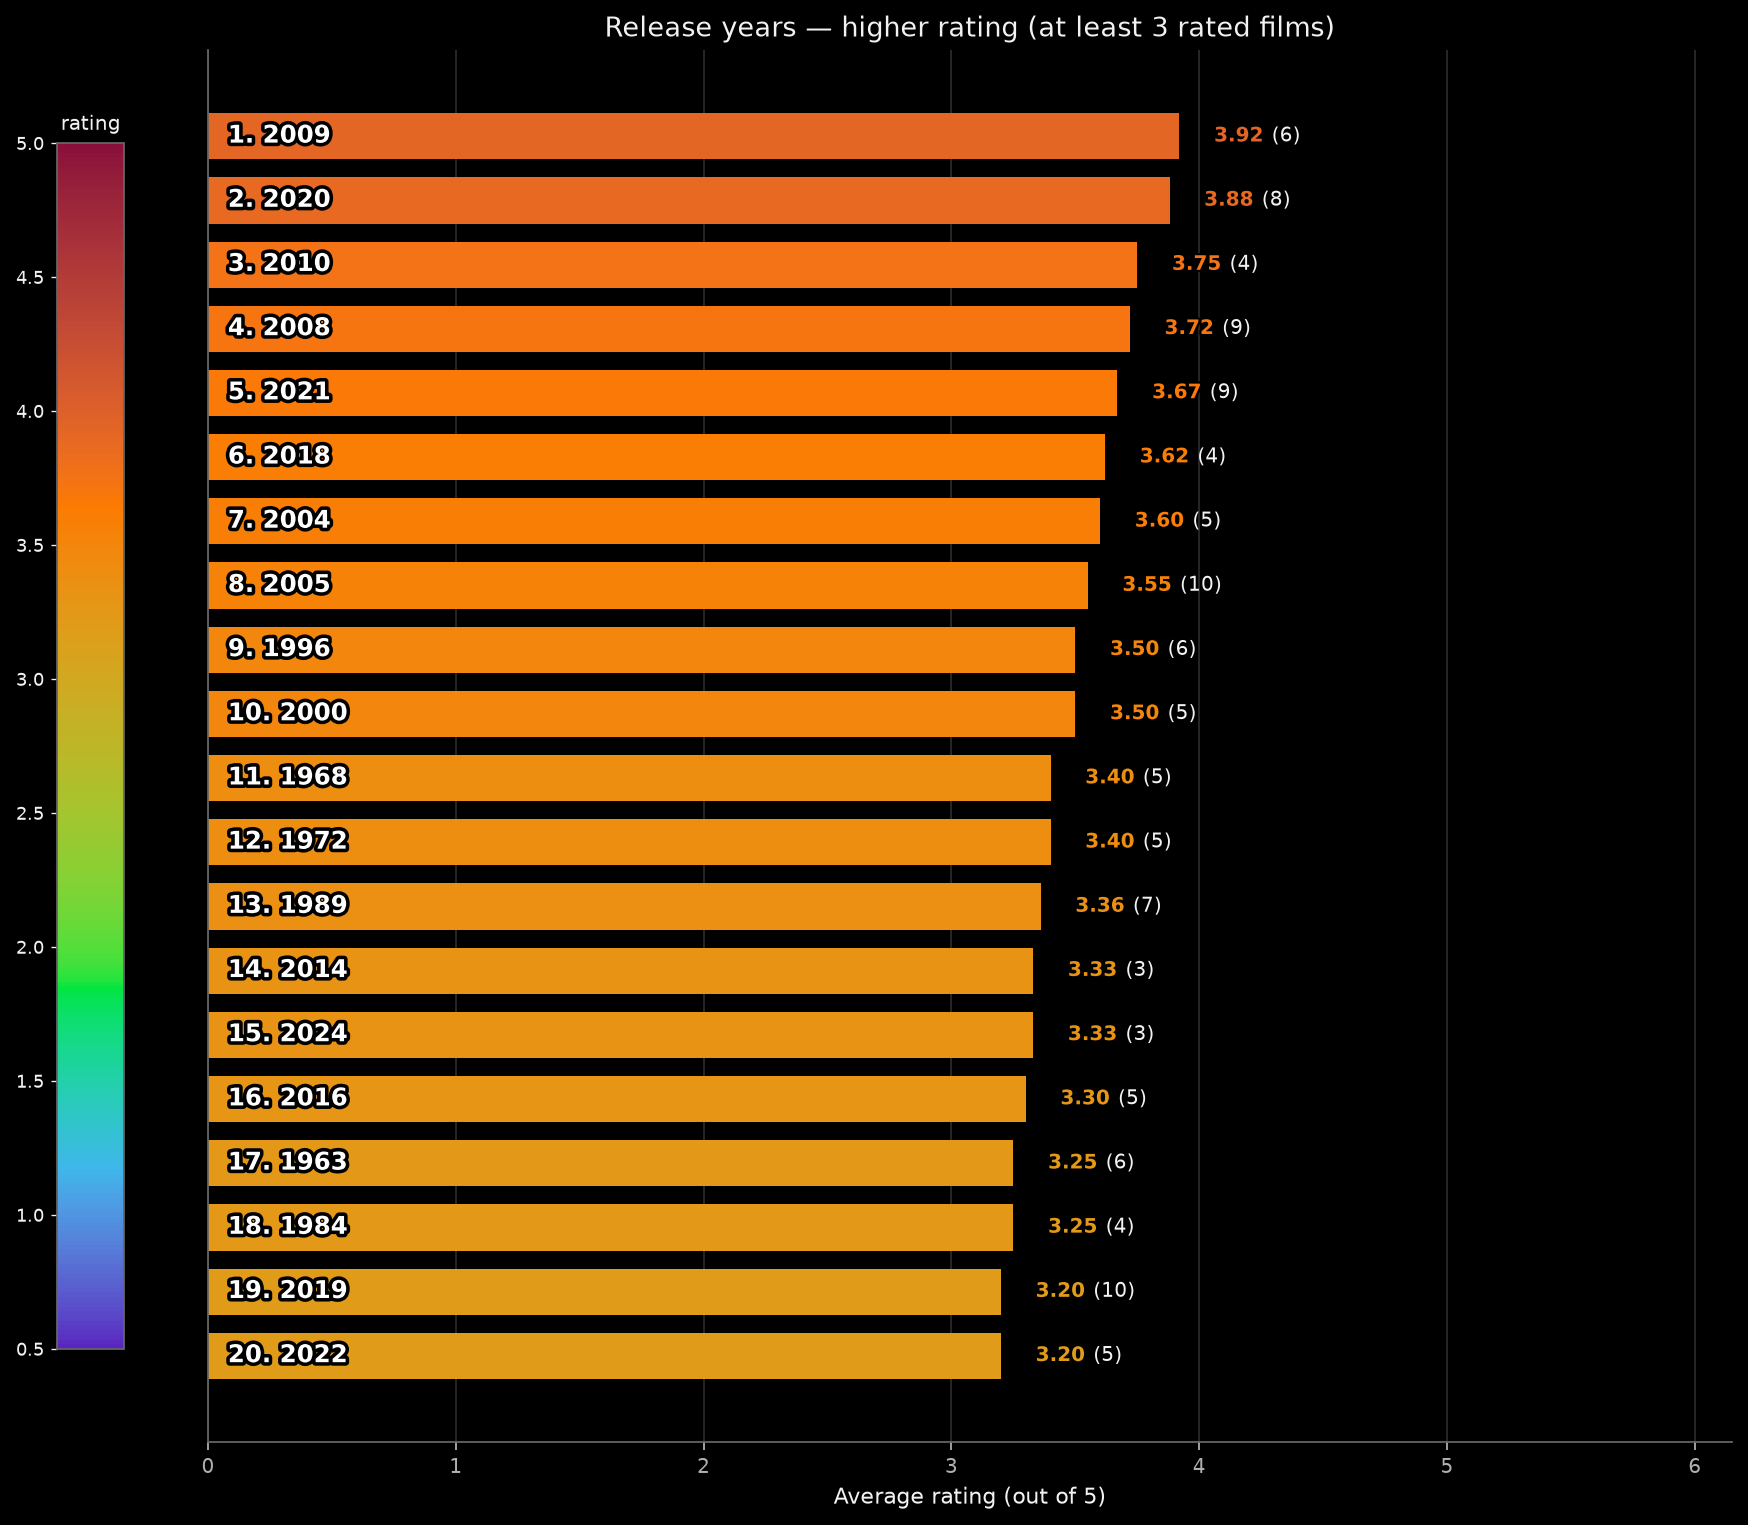
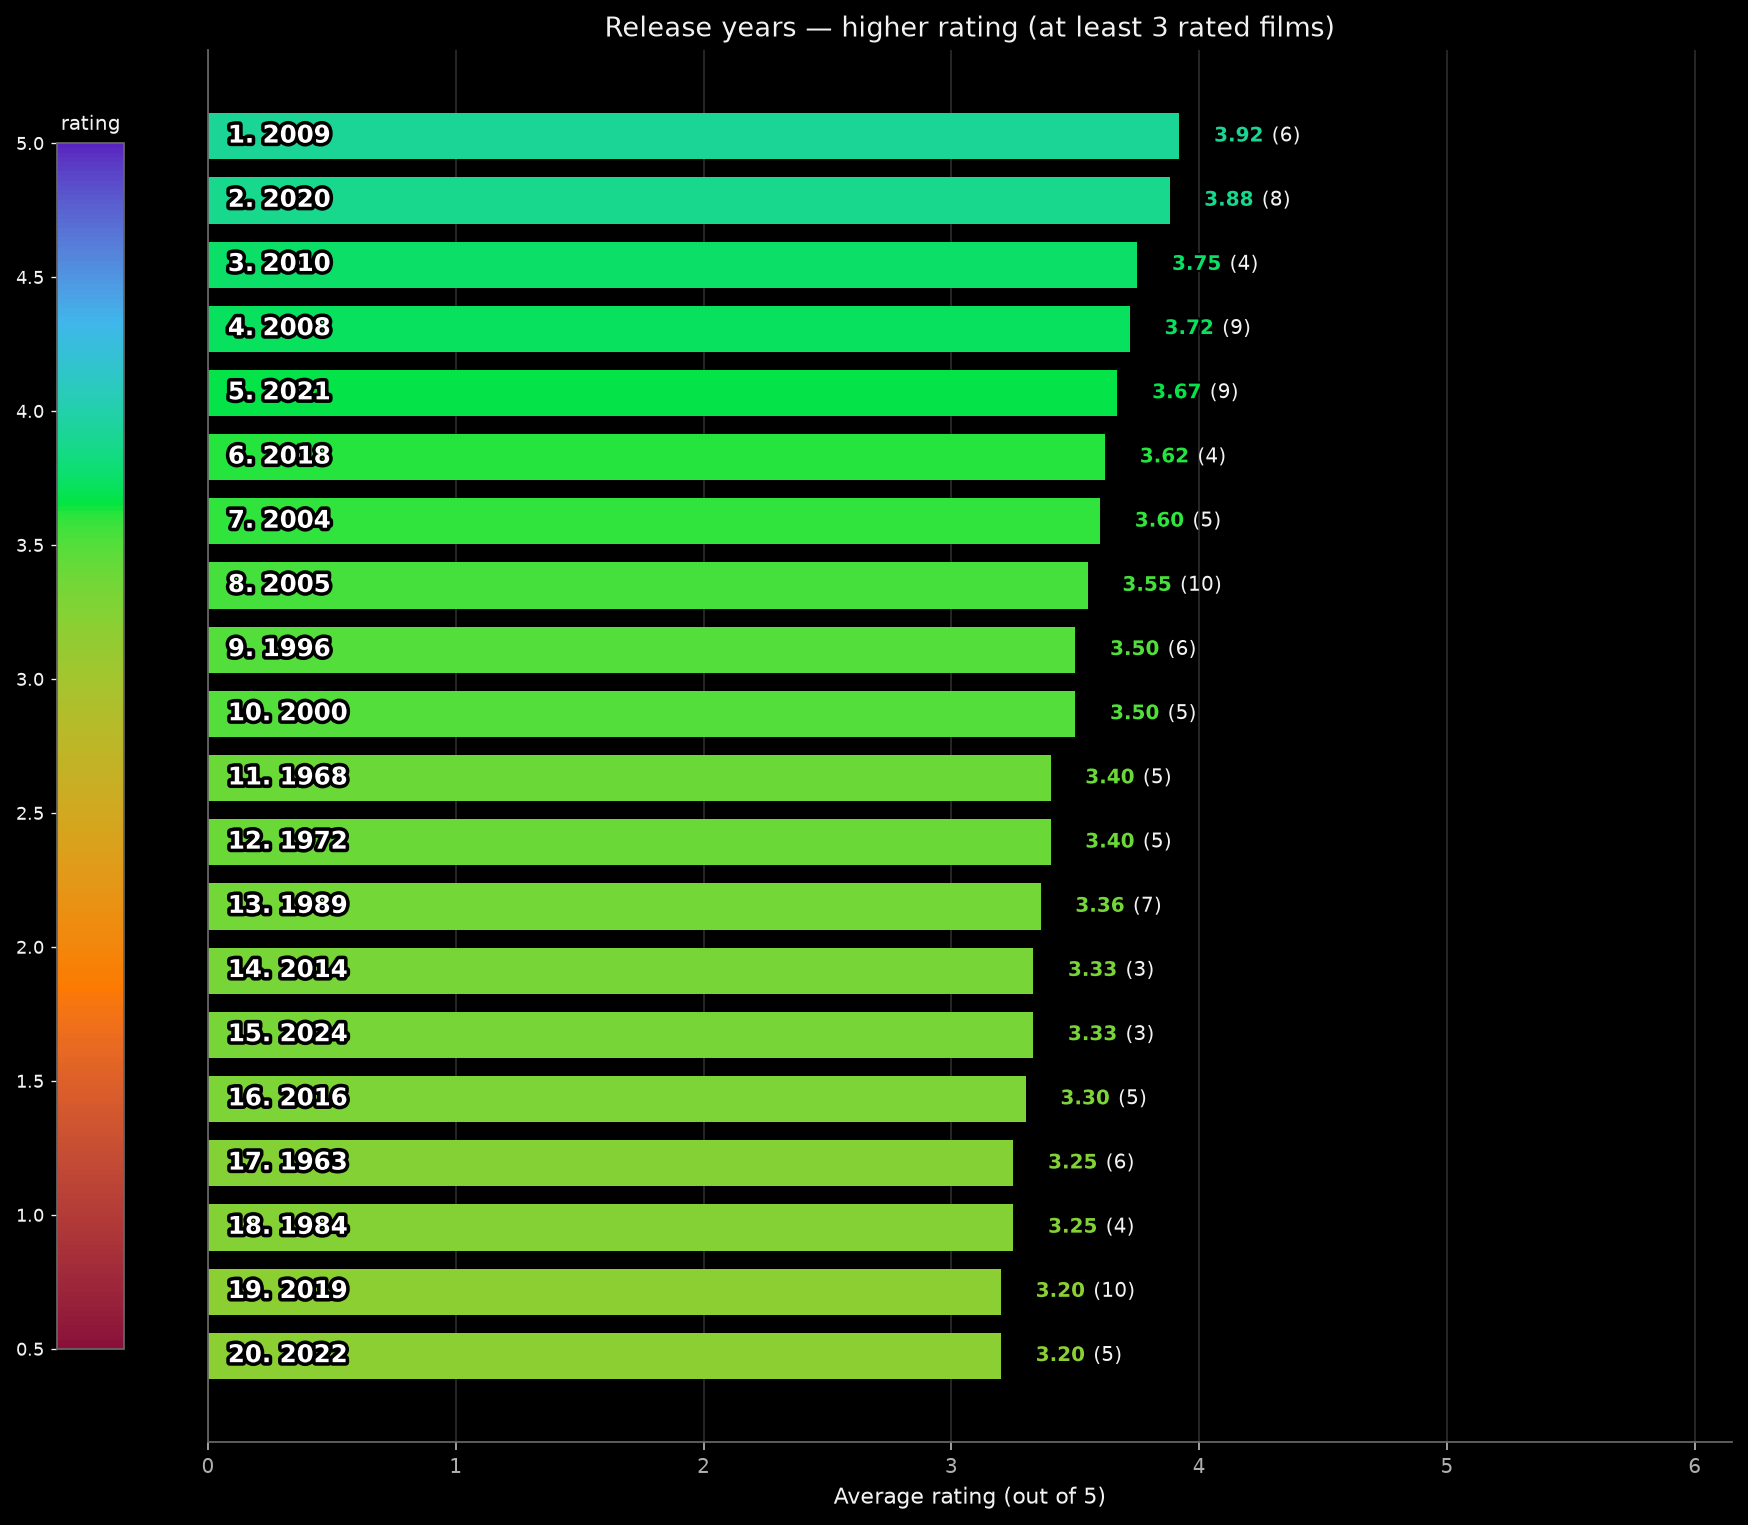
Color high ratings purple and low ratings burgundy.
A rating now maps with t = 1 - (rating - 0.5) / 4.5, so 5 is deep purple and 0.5 is deep burgundy. The palette knots and the discrete year order stay as they are. The rating colorbar uses the same reversal. README rating charts are regenerated.

diff --git a/scripts/test_letterboxd_palette.py b/scripts/test_letterboxd_palette.py
@@ -62,11 +62,13 @@ def test_logo_anchor_constants_are_the_measured_bytes():
     assert palette_rgb(0.4) != LOGO_GREEN_RGB
     assert palette_rgb(0.5) != LOGO_GREEN_RGB
     assert palette_rgb(0.75) != LOGO_ORANGE_RGB
-    # Colorbars go through the same function, not a binned lookup.
+    # The rating colorbar is the same blend, reversed: low is burgundy.
     cmap = rating_colormap()
-    assert palette_rgb_from(cmap(0.15)) == LOGO_BLUE_RGB
-    assert palette_rgb_from(cmap(0.3)) == LOGO_GREEN_RGB
-    assert palette_rgb_from(cmap(0.7)) == LOGO_ORANGE_RGB
+    assert palette_rgb_from(cmap(0.0)) == palette_rgb(1.0)
+    assert palette_rgb_from(cmap(1.0)) == palette_rgb(0.0)
+    assert palette_rgb_from(cmap(1.0 - 0.15)) == LOGO_BLUE_RGB
+    assert palette_rgb_from(cmap(1.0 - 0.3)) == LOGO_GREEN_RGB
+    assert palette_rgb_from(cmap(1.0 - 0.7)) == LOGO_ORANGE_RGB
 
 
 def palette_rgb_from(rgba) -> tuple[int, int, int]:
@@ -205,22 +207,22 @@ def test_discrete_ranks_use_logo_knots_then_even_midpoints():
 
 
 def test_rating_scale_uses_full_range_and_same_anchors():
-    assert palette_rgb_from(rating_color(RATING_VMIN)) == palette_rgb(0.0)
-    assert palette_rgb_from(rating_color(RATING_VMAX)) == palette_rgb(1.0)
-    # Logo blue is inside the rating scale, not the low end.
-    # t = 0.15 → rating = 0.5 + 0.15 * 4.5 = 1.175
-    assert palette_rgb_from(rating_color(1.175)) == LOGO_BLUE_RGB
-    assert palette_rgb_from(rating_color(1.85)) == LOGO_GREEN_RGB  # t = 0.3
-    assert palette_rgb_from(rating_color(3.65)) == LOGO_ORANGE_RGB  # t = 0.7
-    assert palette_rgb_from(rating_color(RATING_VMIN)) != LOGO_BLUE_RGB
+    assert palette_rgb_from(rating_color(RATING_VMIN)) == palette_rgb(1.0)
+    assert palette_rgb_from(rating_color(RATING_VMAX)) == palette_rgb(0.0)
+    # t = 1 - (rating - 0.5) / 4.5. Logo blue is a high rating, not the low end.
+    assert palette_rgb_from(rating_color(4.325)) == LOGO_BLUE_RGB  # t = 0.15
+    assert palette_rgb_from(rating_color(3.65)) == LOGO_GREEN_RGB  # t = 0.3
+    assert palette_rgb_from(rating_color(1.85)) == LOGO_ORANGE_RGB  # t = 0.7
+    assert palette_rgb_from(rating_color(RATING_VMAX)) != LOGO_BLUE_RGB
 
-    # The scale is the same straight blend: 0.7 is just in from purple,
-    # 1.15 is just short of logo blue, and 4.8 is just short of burgundy.
-    assert palette_rgb_from(rating_color(0.7)) != palette_rgb(0.0)
-    assert palette_rgb_from(rating_color(1.15)) != LOGO_BLUE_RGB
-    assert palette_rgb_from(rating_color(4.8)) != palette_rgb(1.0)
-    assert _oklab_distance(palette_rgb_from(rating_color(1.15)), LOGO_BLUE_RGB) < 0.05
-    assert _oklab_distance(palette_rgb_from(rating_color(4.8)), palette_rgb(1.0)) < 0.08
+    # 4.30 is just short of logo blue, 4.8 is just short of purple, and 0.7
+    # is just short of burgundy.
+    assert palette_rgb_from(rating_color(0.7)) != palette_rgb(1.0)
+    assert palette_rgb_from(rating_color(4.30)) != LOGO_BLUE_RGB
+    assert palette_rgb_from(rating_color(4.8)) != palette_rgb(0.0)
+    assert _oklab_distance(palette_rgb_from(rating_color(4.30)), LOGO_BLUE_RGB) < 0.05
+    near_high = palette_rgb_from(rating_color(4.8))
+    assert _oklab_distance(near_high, palette_rgb(0.0)) < _oklab_distance(near_high, LOGO_BLUE_RGB)
 
 
 if __name__ == "__main__":

diff --git a/scripts/test_letterboxd_top_charts.py b/scripts/test_letterboxd_top_charts.py
@@ -18,7 +18,6 @@ from letterboxd_palette import (
     palette_color,
     rating_color,
     rating_colormap,
-    srgb_to_oklab,
     watch_year_palette,
 )
 from PIL import Image
@@ -102,38 +101,33 @@ def test_categorical_palette_samples_quartile_ranks():
     # Rating colors stay a continuous map of the numeric value.
     assert np.allclose(rating_color(RATING_VMIN), rating_colormap()(0.0))
     assert np.allclose(rating_color(RATING_VMAX), rating_colormap()(1.0))
-    assert np.allclose(rating_color(RATING_VMIN), palette_color(0.0))
-    assert np.allclose(rating_color(RATING_VMAX), palette_color(1.0))
+    assert np.allclose(rating_color(RATING_VMIN), palette_color(1.0))
+    assert np.allclose(rating_color(RATING_VMAX), palette_color(0.0))
 
 
 def test_rating_colormap_is_blue_green_red():
     cmap = rating_colormap()
     low = cmap(0.0)
-    mid = cmap(0.3)
+    mid = cmap(1.0 - 0.3)
     high = cmap(1.0)
-    # low: blue dominates red
-    assert low[2] > low[0]
-    # logo green, not the numeric midpoint: green dominates
+    # low rating: burgundy, red dominates blue
+    assert low[0] > low[2]
+    # logo green sits on the reversed scale: green dominates
     assert mid[1] > mid[0] and mid[1] > mid[2]
-    # high: red dominates blue
-    assert high[0] > high[2]
+    # high rating: purple, blue dominates red
+    assert high[2] > high[0]
     # not a pale peach (coolwarm mid ≈ white/cream)
     for sample in (mid, cmap(0.5)):
         assert not (sample[0] > 0.85 and sample[1] > 0.85 and sample[2] > 0.85)
 
 
 def test_rating_color_fixed_scale_separates_high_band():
-    """3.6 vs 4.5 must not collapse into the same flesh band."""
-    a = rating_color(3.6, vmin=RATING_VMIN, vmax=RATING_VMAX)
-    b = rating_color(4.5, vmin=RATING_VMIN, vmax=RATING_VMAX)
-    # Distinct colors. Burgundy is darker than orange, so the red byte can fall
-    # while the color still moves toward red in OKLab.
-    dist = sum(abs(x - y) for x, y in zip(a[:3], b[:3]))
+    """3.6 vs 4.5 stay apart, and the higher rating moves toward purple."""
+    lower = rating_color(3.6, vmin=RATING_VMIN, vmax=RATING_VMAX)
+    higher = rating_color(4.5, vmin=RATING_VMIN, vmax=RATING_VMAX)
+    dist = sum(abs(x - y) for x, y in zip(lower[:3], higher[:3]))
     assert dist > 0.15
-    lab_a = srgb_to_oklab(*a[:3])
-    lab_b = srgb_to_oklab(*b[:3])
-    assert lab_b[1] > lab_a[1]
-    assert lab_b[2] < lab_a[2]
+    assert higher[2] > lower[2]
 
 
 def test_release_year_charts(tmp_path: Path | None = None):
@@ -482,9 +476,9 @@ def test_count_avg_text_style_colors_mean_only():
     assert _rgba(dash["color"]) == _rgba(FG)
     assert low["path_effects"] and high["path_effects"]
     assert dash["path_effects"] is None
-    # 1.94 is just past logo green; 4.80 is near burgundy, so redder.
-    assert high["color"][0] > high["color"][2]
-    assert high["color"][0] > low["color"][0]
+    # 4.80 is near purple; 1.94 is toward orange, so the low rating is redder.
+    assert high["color"][2] > high["color"][0]
+    assert low["color"][0] > high["color"][0]
 
 
 def test_count_bars_drop_n_and_style_mean(tmp_path: Path | None = None):

diff --git a/scripts/letterboxd_palette.py b/scripts/letterboxd_palette.py
@@ -290,7 +290,11 @@ _CMAP = None
 
 
 def rating_colormap():
-    """Colormap of ``palette_color`` for colorbars and ScalarMappable."""
+    """Rating colorbar map: low ratings are burgundy, high ratings are purple.
+
+    A normalized 0 is palette t = 1 and a normalized 1 is palette t = 0.
+    Ordered series do not use this map.
+    """
     global _CMAP
     if _CMAP is not None:
         return _CMAP
@@ -305,10 +309,12 @@ def rating_colormap():
         def _init(self):
             lut = np.zeros((self.N + 3, 4), dtype=float)
             last = max(1, self.N - 1)
+            # Normalized 0 is the low rating (burgundy) and 1 is the high
+            # rating (purple). The palette knots themselves are not reversed.
             for index in range(self.N):
-                lut[index] = palette_color(index / last)
-            lut[self.N] = palette_color(0.0)
-            lut[self.N + 1] = palette_color(1.0)
+                lut[index] = palette_color(1.0 - index / last)
+            lut[self.N] = palette_color(1.0)
+            lut[self.N + 1] = palette_color(0.0)
             lut[self.N + 2] = (0.0, 0.0, 0.0, 0.0)
             self._lut = lut
             self._isinit = True
@@ -325,7 +331,7 @@ def rating_colormap():
                 if not np.isfinite(value):
                     out[index] = (0.0, 0.0, 0.0, 0.0)
                 else:
-                    out[index] = palette_color(float(value))
+                    out[index] = palette_color(1.0 - float(value))
             if alpha is not None:
                 out[:, 3] = np.asarray(alpha, dtype=float).reshape(-1)
             if bytes:
@@ -353,10 +359,11 @@ def _rating_t(avg: float, vmin: float, vmax: float) -> float:
     span = max(1e-6, float(vmax) - float(vmin))
     t = (value - float(vmin)) / span
     if t < 0.0:
-        return 0.0
-    if t > 1.0:
-        return 1.0
-    return t
+        t = 0.0
+    elif t > 1.0:
+        t = 1.0
+    # High ratings sit at the purple end. The knot order is unchanged.
+    return 1.0 - t
 
 
 def rating_color(
@@ -364,10 +371,11 @@ def rating_color(
     vmin: float = RATING_VMIN,
     vmax: float = RATING_VMAX,
 ) -> tuple:
-    """Map a Letterboxd rating onto the full 0–1 palette.
+    """Map a Letterboxd rating onto the full 0–1 palette, reversed.
 
-    0.5 → t = 0 (purple) and 5 → t = 1 (burgundy). The logo anchors sit
-    inside that range at 0.15 / 0.3 / 0.7.
+    0.5 → t = 1 (burgundy) and 5 → t = 0 (purple). With
+    ``t = 1 − (rating − 0.5) / 4.5``, logo orange is 1.85, green is 3.65,
+    and logo blue is 4.325. Ordered series do not use this reversal.
     """
     return palette_color(_rating_t(avg, vmin, vmax))
 

diff --git a/README.md b/README.md
@@ -28,9 +28,9 @@ You send the ZIP from Letterboxd → Settings → Import & Export → Export You
 
 *Directors with the lowest average rating. A bar too short for 15 letters shows the first 15 and an ellipsis.*
 
-![Twenty directors from a 4.80 average down to 1.00, on one smooth scale from burgundy to purple](docs/images/directors-higher-rating-20.png)
+![Twenty directors from a 4.80 average down to 1.00, on one smooth scale from purple to burgundy](docs/images/directors-higher-rating-20.png)
 
-*A top 20 across the rating scale: one smooth blend from burgundy at the top, through logo orange, green, and blue, to purple at 1.0. The three shortest bars show 15 letters and an ellipsis past the bar, with the same gap before the rating as after a normal bar.*
+*A top 20 across the rating scale: one smooth blend from purple at 4.80, through logo blue, green, and orange, to burgundy at 1.00. The three shortest bars show 15 letters and an ellipsis past the bar, with the same gap before the rating as after a normal bar.*
 
 ![Line chart of average rating by month, with a colored dot on each month](docs/images/average-rating-by-month.png)
 
@@ -66,7 +66,7 @@ Dates are month before year. `2021-06.2022` means 2021-01-01 through 2022-06-30.
 
 The report is a set of PNG charts in the chat: calendar (watches, pace, weekdays), extra stats, and TMDB tops for genres, countries of origin, directors, actors, original language, and studios. A rating bar ends with a bold colored average and a regular parenthetical count. A name stays inside its bar and is shortened with an ellipsis only when it does not fit. A bar too short for 15 characters shows the first 15 characters and an ellipsis, running past the end of the bar.
 
-Every chart uses one palette. The anchors are the three logo circles, measured from the non-overlapping interior of each circle: blue `#3FB7EB` at 0.15, green `#03E53E` at 0.3, and orange `#FC7A02` at 0.7. The blend is a straight line in OKLab between five knots: deep purple `#5922BF` at 0, those three logo colors, and deep burgundy `#890E3A` at 1. The uneven spacing keeps the scale from looking uniform. A rating uses the whole range: 0.5 maps to 0 and 5 maps to 1. An ordered series (watch years, ranked genres), earliest or lowest first, is logo green for one value, logo blue and orange for two, and the three logo colors for three. Four or more values use the even bin midpoints `(i + 0.5) / N`, across the whole palette, with no bend toward the logo colors. Four values are 0.125, 0.375, 0.625, and 0.875. Seven values are 0.5/7, 1.5/7, 2.5/7, 3.5/7, 4.5/7, 5.5/7, and 6.5/7.
+Every chart uses one palette. The anchors are the three logo circles, measured from the non-overlapping interior of each circle: blue `#3FB7EB` at 0.15, green `#03E53E` at 0.3, and orange `#FC7A02` at 0.7. The blend is a straight line in OKLab between five knots: deep purple `#5922BF` at 0, those three logo colors, and deep burgundy `#890E3A` at 1. The uneven spacing keeps the scale from looking uniform. A rating uses the whole range in reverse: 5 maps to 0 (deep purple) and 0.5 maps to 1 (deep burgundy). An ordered series (watch years, ranked genres), earliest or lowest first, is logo green for one value, logo blue and orange for two, and the three logo colors for three. Four or more values use the even bin midpoints `(i + 0.5) / N`, across the whole palette, with no bend toward the logo colors. Four values are 0.125, 0.375, 0.625, and 0.875. Seven values are 0.5/7, 1.5/7, 2.5/7, 3.5/7, 4.5/7, 5.5/7, and 6.5/7.
 
 Example title: Studios — lower rating (at least 3 rated films).
 

diff --git a/AGENTS.md b/AGENTS.md
@@ -79,7 +79,7 @@ The three middle knots are the measured logo circles (median sRGB of each non-ov
 
 Never use hue bands, hard cuts, holds, or easing.
 
-A rating maps with `t = (rating − 0.5) / 4.5` (`RATING_VMIN = 0.5`, `RATING_VMAX = 5.0`). So 1.175 is logo blue, 1.85 is green, and 3.65 is logo orange.
+A rating maps with `t = 1 − (rating − 0.5) / 4.5` (`RATING_VMIN = 0.5`, `RATING_VMAX = 5.0`), clamped to 0–1. So 5 is deep purple, 0.5 is deep burgundy, 4.325 is logo blue, 3.65 is green, and 1.85 is logo orange. This reversal is only the rating map. Discrete series below still start at the purple side.
 
 Discrete ordered series (watch years, ranked genres), earliest or lowest first, use `categorical_positions`. This is the permanent rule:
 
